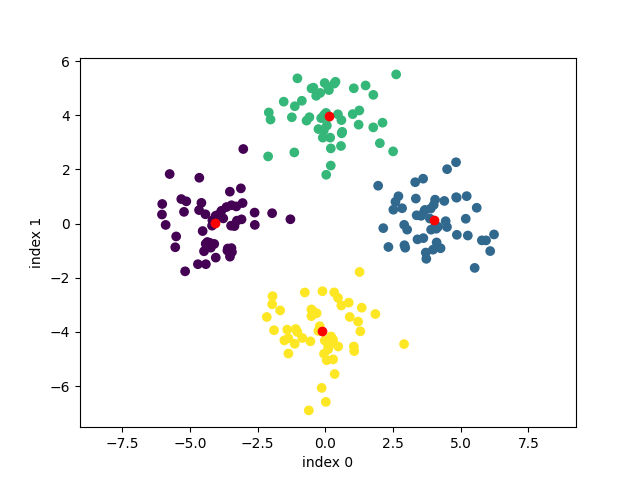
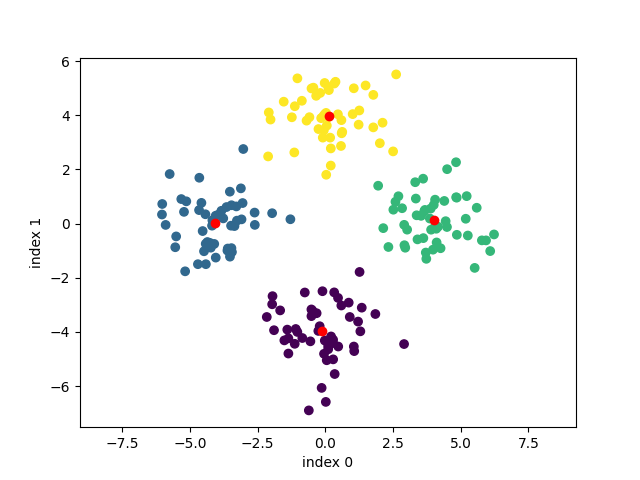
Image Compression and update fit & predict algorithm

diff --git a/kmeans.py b/kmeans.py
@@ -1,4 +1,5 @@
 import numpy as np
+from numpy.core.fromnumeric import argmin
 
 #################################
 # DO NOT IMPORT OHTER LIBRARIES
@@ -24,27 +25,25 @@ def get_k_means_plus_plus_center_indices(n, n_cluster, x, generator=np.random):
 	# 1 using generator.rand(), then find the the smallest index n so that the 
 	# cumulative probability from example 1 to example n is larger than r.
     #############################################################################
-    centers = [x[p]]
+    N, D = x.shape
+    centers = [p]
 
     while len(centers) < n_cluster:
-        r = generator.rand()
-        D = []
+        r = np.full(N, generator.rand())
+        centroids = np.array([x[i] for i in centers])
+        mapped_x = np.tile(x, (1, len(centers))).reshape(N, len(centers), D)
+        mapped_centroids = np.tile(centroids.reshape(1, len(centers) * D), (N, 1)).reshape(N, len(centers), D)
+        distances = np.einsum("ijk, ijk->ij", mapped_x - mapped_centroids, mapped_x - mapped_centroids)
+        max_distances = np.array([max(distance) for distance in distances])
+        argmax_distances = np.array([np.argmax(distances[i]) for i in range(len(distances))])
+        probabilities = max_distances / np.array([np.sum(np.transpose(distances)[k]) for k in argmax_distances])
+        cum_probs = np.cumsum(probabilities)
+        selections = np.array([0 if n in centers else 1 for n in range(N)])
 
-        # Compute distances from each points to closest existing center
-        for point in x:
-            min_d = np.infty
-
-            for center in centers:
-                d = np.sum((point - center)**2)
-                min_d = min(min_d, d)
-            
-            D.append(min_d)
-
-        # Compute probability and select point
-        for j in range(len(D)):
-            if D[j] / np.sum(D) > r:
-                centers.append(x[j])
-                break
+        if np.any(cum_probs * selections > r[0]):
+            centers.append(np.where(cum_probs * selections > r[0])[0][0])
+        # else:
+        #     centers.append(np.argmax(distances * selections))
 
     # DO NOT CHANGE CODE BELOW THIS LINE
     return centers
@@ -93,31 +92,32 @@ class KMeans():
         #   (i.e., average K-mean objective changes less than self.e)
         #   or until you have made self.max_iter updates.
         ###################################################################
+        centroids = np.array([x[i] for i in self.centers])
         objective = None
         assignments = None
         times = 0
-
+        
         for t in range(self.max_iter):
             times += 1
-            membership = np.zeros((N, len(self.centers)))
+            mapped_x = np.tile(x, (1, self.n_cluster)).reshape(N, self.n_cluster, D)
+            mapped_centroids = np.tile(centroids.reshape(1, self.n_cluster * D), (N, 1)).reshape(N, self.n_cluster, D)
+            distances = np.einsum("ijk, ijk->ij", mapped_x - mapped_centroids, mapped_x - mapped_centroids)
             
             # Update membership
-            for n in range(N):
-                label = np.argmin(np.array([np.sum((x[n] - self.centers[k])**2) for k in range(len(self.centers))]))
-                membership[n][label] = 1
+            membership = np.array([[1 if c == np.argmin(distances[n]) else 0 for c in range(self.n_cluster)] for n in range(N)])
 
             # Update centers
-            self.centers = (np.transpose(membership) @ x) / (np.transpose(membership) @ np.ones(x.shape))
+            centroids = (np.transpose(membership) @ x) / (np.transpose(membership) @ np.ones(x.shape))
 
-            assignments = membership @ np.arange(len(self.centers))
-            new_objective = np.sum((membership @ self.centers - x)**2)
+            assignments = membership @ np.arange(self.n_cluster)
+            new_objective = np.sum(membership * distances)
 
             if objective != None and objective - new_objective <= self.e:
                 break
 
             objective = new_objective
     
-        return self.centers, assignments, times
+        return centroids, assignments, times
 
 class KMeansClassifier():
 
@@ -164,28 +164,29 @@ class KMeansClassifier():
         ################################################################
         objective = None
         membership = None
-        centroids = centroid_func(len(x), self.n_cluster, x, self.generator)
+        centroids = np.array([x[i] for i in centroid_func(len(x), self.n_cluster, x, self.generator)])
         centroid_labels = np.ones(self.n_cluster)
 
         for t in range(self.max_iter):
-            membership = np.zeros((N, self.n_cluster))
+            mapped_x = np.tile(x, (1, self.n_cluster)).reshape(N, self.n_cluster, D)
+            mapped_centroids = np.tile(centroids.reshape(1, self.n_cluster * D), (N, 1)).reshape(N, self.n_cluster, D)
+            distances = np.einsum("ijk, ijk->ij", mapped_x - mapped_centroids, mapped_x - mapped_centroids)
             
             # Update membership
-            for n in range(N):
-                label = np.argmin(np.array([np.sum((x[n] - centroids[k])**2) for k in range(self.n_cluster)]))
-                membership[n][label] = 1
+            membership = np.array([[1 if c == np.argmin(distances[n]) else 0 for c in range(self.n_cluster)] for n in range(N)])
 
             # Update centers
             centroids = (np.transpose(membership) @ x) / (np.transpose(membership) @ np.ones(x.shape))
 
-            new_objective = np.sum((membership @ centroids - x)**2)
+            new_objective = np.sum(membership * distances)
 
             if objective != None and objective - new_objective <= self.e:
                 break
 
             objective = new_objective
 
-        centroid_labels = np.array([np.argmax(row) for row in np.transpose(membership) @ membership])
+        training_membership = np.array([[1 if c == y[n] else 0 for c in range(self.n_cluster)] for n in range(N)])
+        centroid_labels = np.array([np.argmax(votes) for votes in np.transpose(membership) @ training_membership])
         
         # DO NOT CHANGE CODE BELOW THIS LINE
         self.centroid_labels = centroid_labels
@@ -216,11 +217,12 @@ class KMeansClassifier():
         #    dataset (self.centroids, self.centroid_labels)
         ##########################################################################
         # Map x from (N, D) and centroids from (n_cluster, D) to (N, n_cluster, D)
-        # mapped_x = np.tile(x, (1, self.n_cluster)).reshape(N, self.n_cluster, D)
-        # mapped_centroids = np.tile(self.centroids.reshape(1, self.n_cluster*D), (N, 1)).reshape(N, self.n_cluster, D)
-        # distances = (mapped_x - mapped_centroids)**2
-        # print(np.argmin([(x[0] - self.centroids[k])**2 for k in range(self.n_cluster)]))
-        return np.array([self.centroid_labels[np.argmin([np.sum((point - self.centroids[k])**2) for k in range(self.n_cluster)])] for point in x])
+        mapped_x = np.tile(x, (1, self.n_cluster)).reshape(N, self.n_cluster, D)
+        mapped_centroids = np.tile(self.centroids.reshape(1, self.n_cluster*D), (N, 1)).reshape(N, self.n_cluster, D)
+        # Compute distances -> (N, self.n_cluster)
+        distances = np.einsum("ijk, ijk->ij", mapped_x - mapped_centroids, mapped_x - mapped_centroids)
+        
+        return np.array([self.centroid_labels[np.argmin(distances[n])] for n in range(N)])
 
 
 
@@ -244,4 +246,14 @@ def transform_image(image, code_vectors):
     # TODO
     # - replace each pixel (a 3-dimensional point) by its nearest code vector
     ##############################################################################
-    
+    W, L, D = image.shape
+    N, K = W * L, code_vectors.shape[0]
+    pixels = image.reshape(N, 3)
+
+    mapped_pixels = np.tile(pixels, (1, K)).reshape(N, K, 3)
+    mapped_code_vectors = np.tile(code_vectors.reshape(1, K * 3), (N, 1)).reshape(N, K, 3)
+    distances = np.einsum("ijk, ijk->ij", mapped_pixels - mapped_code_vectors, mapped_pixels - mapped_code_vectors)
+
+    new_pixels = np.array([code_vectors[np.argmin(distance)] for distance in distances])
+
+    return new_pixels.reshape(image.shape)

diff --git a/kmeansTest.py b/kmeansTest.py
@@ -170,6 +170,6 @@ def kmeans_classification_builder(centroid_func, x_train, x_test, y_train, y_tes
 
 
 if __name__ == '__main__':
-    # kmeans_toy()
+    kmeans_toy()
     # kmeans_image_compression()
     kmeans_classification()
